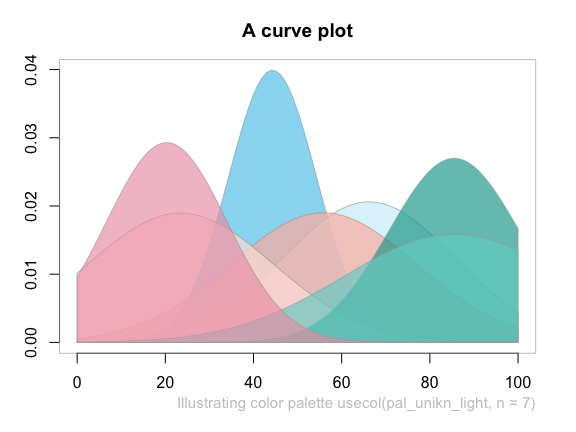
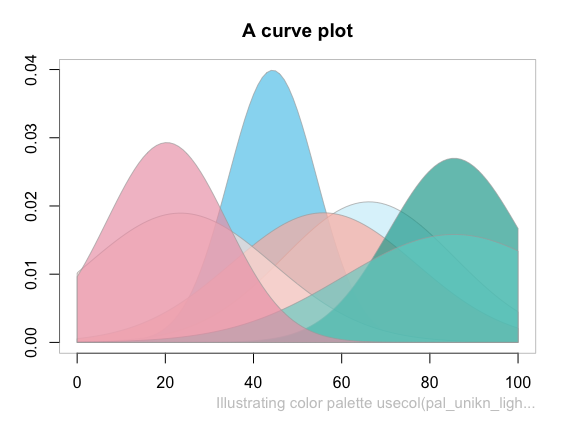
update documentation

Changed region(s): [[0.3125, 0.9028, 0.9375, 0.963]]

diff --git a/README.md b/README.md
@@ -31,7 +31,7 @@ downloads](https://cranlogs.r-pkg.org/badges/grand-total/unikn)](https://www.r-p
 [![Rdoc](https://www.rdocumentation.org/badges/version/unikn/)](https://www.rdocumentation.org/packages/unikn/)
 -->
 
-# unikn 1.1.0.9001 <img src = "./logo.png" align = "right" alt = "unikn" width = "160" />
+# unikn 1.1.0.9003 <img src = "./logo.png" align = "right" alt = "unikn" width = "160" />
 
 <!-- unikn pkg logo and link (to CRAN): -->
 
@@ -828,6 +828,6 @@ remain with their original creators:
 
 <!-- Footer: -->
 
-\[File `README.md` updated on 2026-11-12.\]
+\[File `README.md` updated on 2026-11-16.\]
 
 <!-- eof. -->
